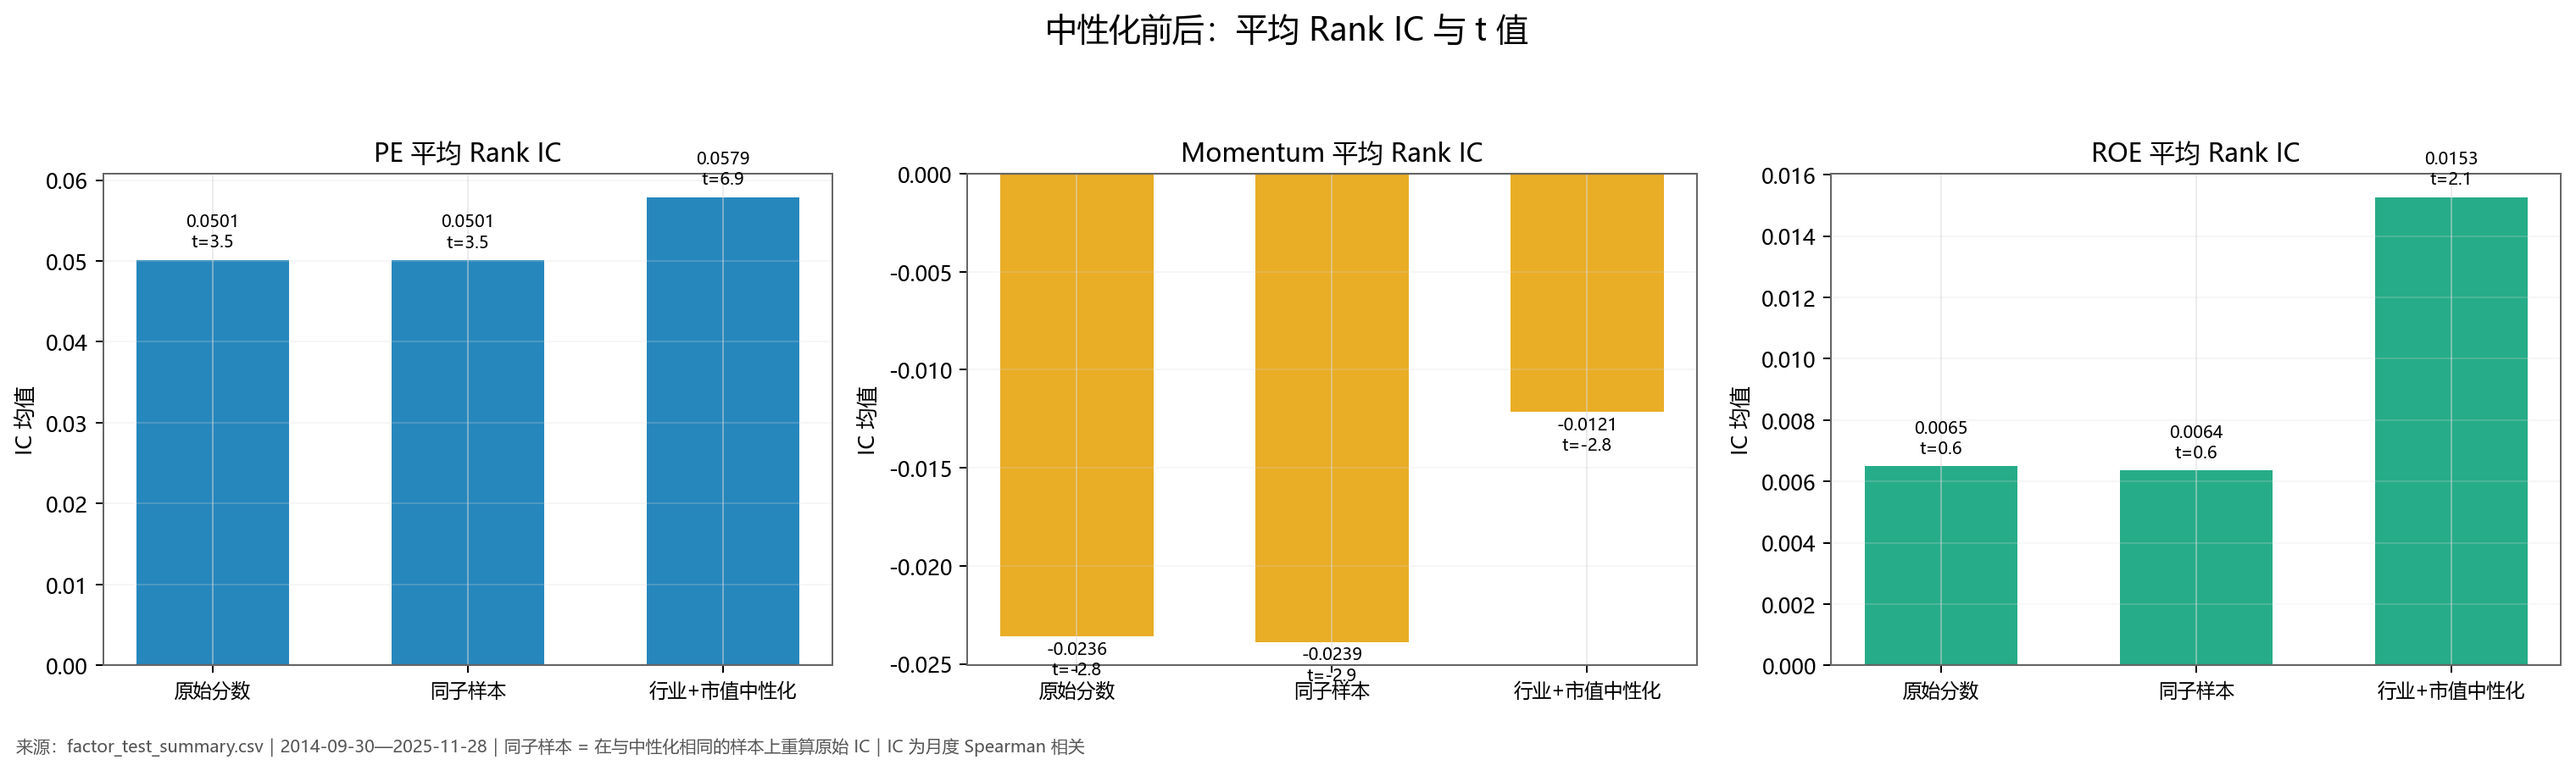
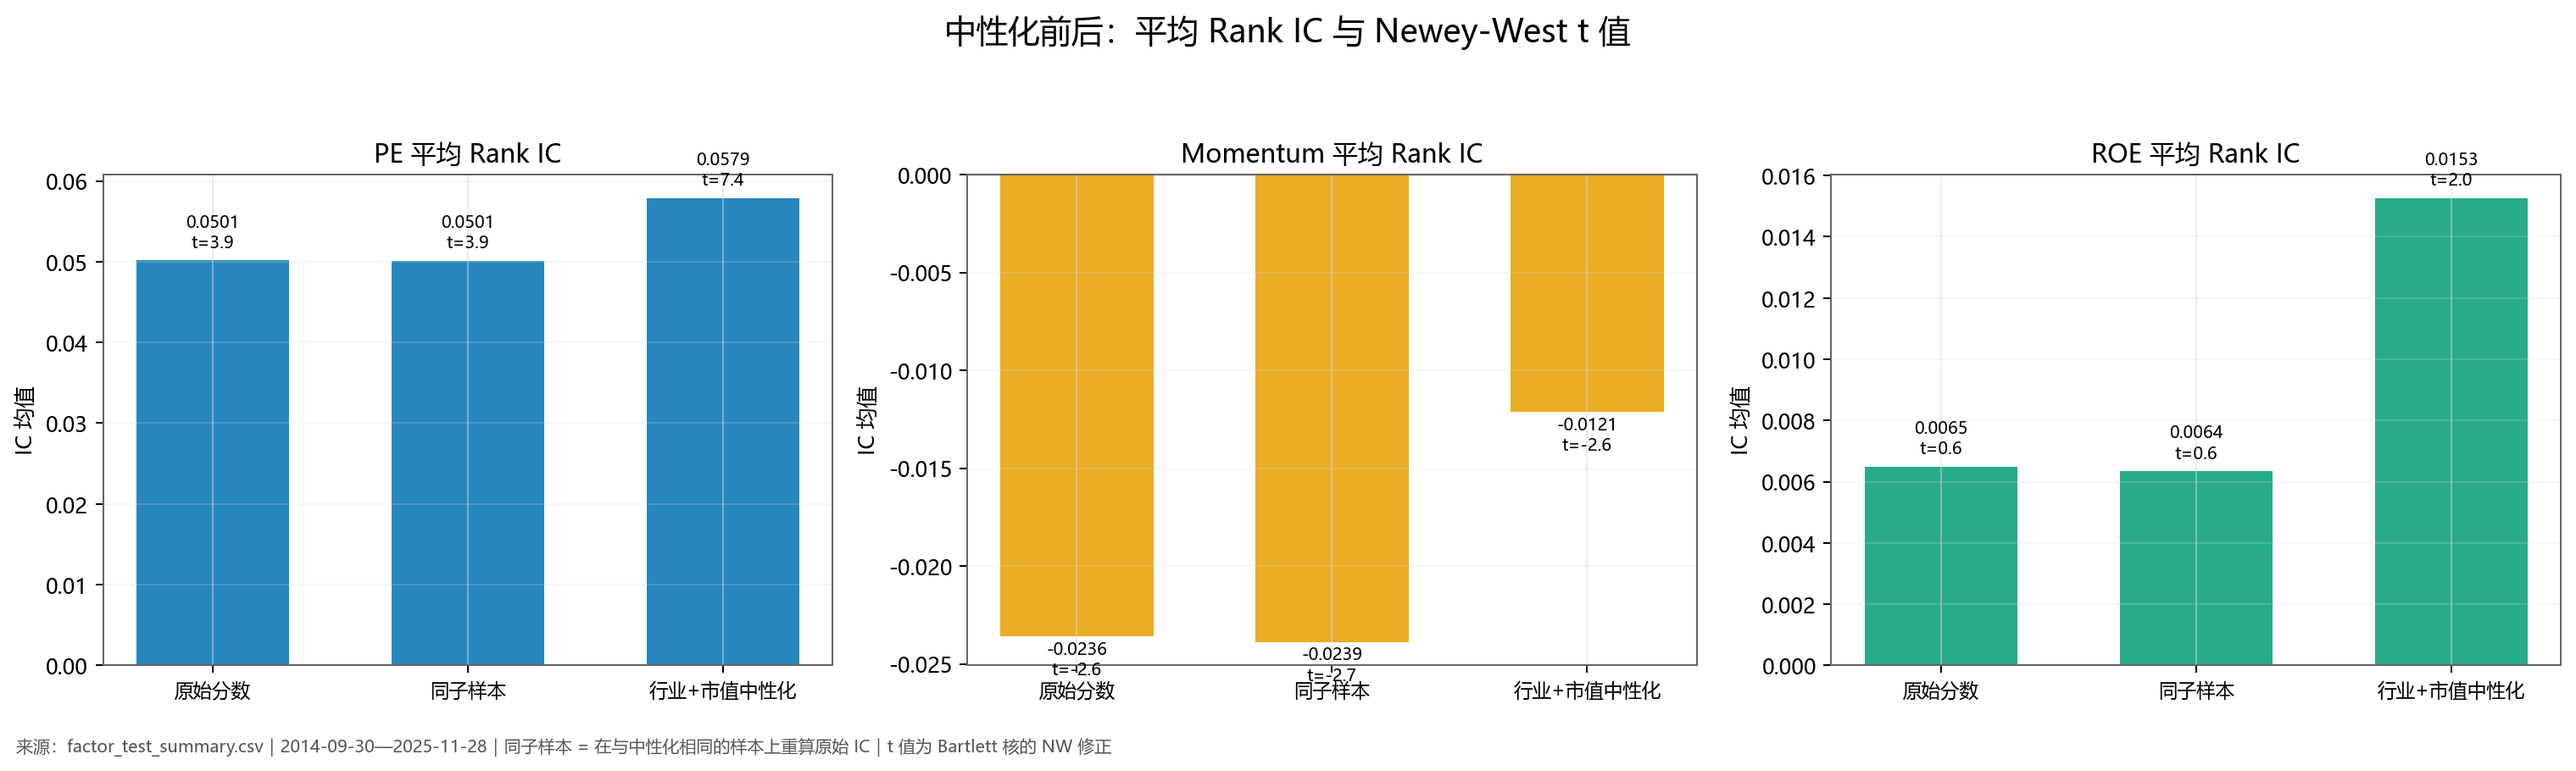
feat: report Newey-West t statistics and four-regime stability
The IC and long-short series are monthly and tend to run in streaks, so the plain t statistic overstates precision. Both are now paired with a Bartlett-kernel Newey-West t using the automatic bandwidth. The same statistics are repeated inside four style regimes configured in config.yaml, which turns a single full-sample claim into a statement about when the factor works.

diff --git a/src/factor_test.py b/src/factor_test.py
@@ -4,7 +4,7 @@ from __future__ import annotations
 
 import argparse
 import math
-from dataclasses import dataclass
+from dataclasses import dataclass, field
 from pathlib import Path
 
 import numpy as np
@@ -13,6 +13,7 @@ import pyarrow.parquet as pq
 import yaml
 
 FACTORS = ("pe", "momentum", "roe")
+MIN_T_STAT_ROWS = 3
 
 
 @dataclass(frozen=True)
@@ -20,6 +21,7 @@ class FactorTestConfig:
     processed_dir: Path
     quantile_groups: int
     min_ic_pairs: int
+    subperiods: tuple[tuple[str, pd.Timestamp, pd.Timestamp], ...] = ()
 
 
 @dataclass(frozen=True)
@@ -30,6 +32,22 @@ class FactorTestOutputs:
     quantile_returns: pd.DataFrame
     ic_series: pd.DataFrame
     summary: pd.DataFrame
+    subperiods: pd.DataFrame = field(default_factory=pd.DataFrame)
+
+
+def parse_subperiods(raw: object) -> tuple[tuple[str, pd.Timestamp, pd.Timestamp], ...]:
+    """Read the configured sub-periods and reject overlaps or mixed-up order."""
+    entries = tuple(
+        (str(item["name"]), pd.Timestamp(item["start"]), pd.Timestamp(item["end"]))
+        for item in (raw or [])
+    )
+    for name, start, end in entries:
+        if start > end:
+            raise ValueError(f"Sub-period {name} starts after it ends.")
+    for previous, following in zip(entries, entries[1:]):
+        if following[1] <= previous[2]:
+            raise ValueError(f"Sub-period {following[0]} overlaps {previous[0]}.")
+    return entries
 
 
 def load_factor_test_config(config_path: Path) -> FactorTestConfig:
@@ -40,6 +58,7 @@ def load_factor_test_config(config_path: Path) -> FactorTestConfig:
         processed_dir=root / settings["data"]["processed_dir"],
         quantile_groups=int(settings["factors"]["quantile_groups"]),
         min_ic_pairs=int(settings["factor_test"]["min_ic_pairs"]),
+        subperiods=parse_subperiods(settings["factor_test"].get("subperiods")),
     )
 
 
@@ -252,17 +271,39 @@ def build_ic_series(details: pd.DataFrame, min_ic_pairs: int) -> pd.DataFrame:
     return pd.DataFrame(rows)
 
 
-def _mean_ir_t(values: pd.Series) -> tuple[float | pd.NA, float | pd.NA, float | pd.NA]:
-    """Mean, information ratio, and t statistic of a monthly series."""
+def newey_west_lags(count: int) -> int:
+    """Newey-West (1994) automatic bandwidth: floor(4 * (T/100)^(2/9))."""
+    return max(1, int(np.floor(4 * (count / 100) ** (2 / 9))))
+
+
+def newey_west_t(values: pd.Series, lags: int | None = None) -> float:
+    """t statistic of the mean with a Bartlett-weighted long-run variance."""
+    clean = values.dropna().to_numpy(dtype=float)
+    count = clean.size
+    if count < MIN_T_STAT_ROWS:
+        return np.nan
+    bandwidth = min(newey_west_lags(count) if lags is None else int(lags), count - 1)
+    centered = clean - clean.mean()
+    long_run = float((centered ** 2).sum() / count)
+    for lag in range(1, bandwidth + 1):
+        covariance = float((centered[lag:] * centered[:-lag]).sum() / count)
+        long_run += 2 * (1 - lag / (bandwidth + 1)) * covariance
+    if long_run <= 0:
+        return np.nan
+    return float(clean.mean() / np.sqrt(long_run / count))
+
+
+def _mean_ir_t(values: pd.Series) -> tuple[float | pd.NA, float | pd.NA, float | pd.NA, float | pd.NA]:
+    """Mean, information ratio, plain t, and Newey-West t of a monthly series."""
     clean = values.dropna()
     if len(clean) < 2:
-        return pd.NA, pd.NA, pd.NA
+        return pd.NA, pd.NA, pd.NA, pd.NA
     mean = float(clean.mean())
     spread = float(clean.std(ddof=1))
     if spread == 0:
-        return mean, pd.NA, pd.NA
+        return mean, pd.NA, pd.NA, pd.NA
     ratio = mean / spread
-    return mean, ratio, ratio * np.sqrt(len(clean))
+    return mean, ratio, ratio * np.sqrt(len(clean)), newey_west_t(clean)
 
 
 def build_summary(details: pd.DataFrame, quantile_returns: pd.DataFrame, ic_series: pd.DataFrame) -> pd.DataFrame:
@@ -273,8 +314,8 @@ def build_summary(details: pd.DataFrame, quantile_returns: pd.DataFrame, ic_seri
             quantile_returns["factor"].eq(factor) & quantile_returns["score_type"].eq(score_type)
         ]
         spread = groups.loc[groups["quantile"].eq(1), ["signal_date", "q_high_minus_q_low"]].drop_duplicates()
-        ic_mean, ic_ir, ic_t = _mean_ir_t(ic)
-        spread_mean, _, spread_t = _mean_ir_t(spread["q_high_minus_q_low"])
+        ic_mean, ic_ir, ic_t, ic_t_nw = _mean_ir_t(ic)
+        spread_mean, _, spread_t, spread_t_nw = _mean_ir_t(spread["q_high_minus_q_low"])
         rows.append({
             "factor": factor, "score_type": score_type,
             "signal_periods": int(item["signal_date"].nunique()),
@@ -286,10 +327,44 @@ def build_summary(details: pd.DataFrame, quantile_returns: pd.DataFrame, ic_seri
             "empty_group_rows": int(groups["empty_group"].sum()),
             "ic_valid_periods": int(ic.notna().sum()),
             "ic_mean": ic_mean, "ic_std": float(ic.std(ddof=1)) if ic.notna().sum() > 1 else pd.NA,
-            "ic_ir": ic_ir, "ic_t": ic_t,
+            "ic_ir": ic_ir, "ic_t": ic_t, "ic_t_nw": ic_t_nw,
+            "nw_lags": newey_west_lags(int(ic.notna().sum())) if ic.notna().sum() else pd.NA,
             "ic_win_rate": ic.gt(0).mean() if ic.notna().any() else pd.NA,
-            "spread_mean": spread_mean, "spread_t": spread_t,
+            "spread_mean": spread_mean, "spread_t": spread_t, "spread_t_nw": spread_t_nw,
         })
+    return pd.DataFrame(rows)
+
+
+def build_subperiod_table(quantile_returns: pd.DataFrame, ic_series: pd.DataFrame,
+                          subperiods: tuple[tuple[str, pd.Timestamp, pd.Timestamp], ...]) -> pd.DataFrame:
+    """Repeat the IC and spread statistics inside each configured regime."""
+    if not subperiods:
+        return pd.DataFrame()
+    spread_all = (
+        quantile_returns.loc[quantile_returns["quantile"].eq(1),
+                            ["factor", "score_type", "signal_date", "q_high_minus_q_low"]]
+        .drop_duplicates(["factor", "score_type", "signal_date"])
+    )
+    rows = []
+    for (factor, score_type), ic_group in ic_series.groupby(["factor", "score_type"], sort=True):
+        spread_group = spread_all.loc[
+            spread_all["factor"].eq(factor) & spread_all["score_type"].eq(score_type)
+        ]
+        for name, start, end in subperiods:
+            ic_slice = ic_group.loc[ic_group["signal_date"].between(start, end), "rank_ic"]
+            spread_slice = spread_group.loc[
+                spread_group["signal_date"].between(start, end), "q_high_minus_q_low"
+            ]
+            ic_mean, ic_ir, _, ic_t_nw = _mean_ir_t(ic_slice)
+            spread_mean, _, _, spread_t_nw = _mean_ir_t(spread_slice)
+            rows.append({
+                "factor": factor, "score_type": score_type, "period": name,
+                "start": start, "end": end,
+                "periods": int(ic_slice.notna().sum()),
+                "ic_mean": ic_mean, "ic_ir": ic_ir, "ic_t_nw": ic_t_nw,
+                "ic_win_rate": ic_slice.gt(0).mean() if ic_slice.notna().any() else pd.NA,
+                "spread_mean": spread_mean, "spread_t_nw": spread_t_nw,
+            })
     return pd.DataFrame(rows)
 
 
@@ -310,25 +385,46 @@ def validate_outputs(outputs: FactorTestOutputs, quantile_groups: int, min_ic_pa
         raise ValueError("Rank IC was calculated below the configured minimum sample size.")
     if set(ic["score_type"]) != set(members["score_type"]):
         raise ValueError("Every score type must appear in the IC series.")
+    if not outputs.subperiods.empty:
+        if outputs.subperiods.duplicated(["factor", "score_type", "period"]).any():
+            raise ValueError("Sub-period table contains duplicate rows.")
+        totals = outputs.subperiods.groupby(["factor", "score_type"])["periods"].sum()
+        expected = outputs.summary.set_index(["factor", "score_type"])["ic_valid_periods"]
+        if not totals.reindex(expected.index).fillna(0).eq(expected).all():
+            raise ValueError("Sub-period counts do not add up to the overall IC periods.")
 
 
 def render_report(outputs: FactorTestOutputs) -> str:
     lines = ["# 因子有效性检验", "", "本报告检验因子分数对下一月收益的区分能力，不代表实际开盘成交后的策略收益。", "",
-             "## 汇总", "", "| 因子 | 分数 | 可检验股票记录 | 有效 IC 期数 | IC 均值 | IC 标准差 | ICIR | IC t 值 | IC 胜率 | Q5-Q1 均值 | Q5-Q1 t 值 |",
-             "| --- | --- | ---: | ---: | ---: | ---: | ---: | ---: | ---: | ---: | ---: |"]
+             "## 汇总", "", "| 因子 | 分数 | 有效 IC 期数 | IC 均值 | IC 标准差 | ICIR | IC t 值 | IC t 值（NW） | IC 胜率 | Q5-Q1 均值 | Q5-Q1 t 值（NW） | NW 阶数 |",
+             "| --- | --- | ---: | ---: | ---: | ---: | ---: | ---: | ---: | ---: | ---: | ---: |"]
     order = {"raw": 0, "raw_neutral_sample": 1, "neutral": 2}
     summary = outputs.summary.assign(_order=outputs.summary["score_type"].map(order)).sort_values(["_order", "factor"])
     for row in summary.itertuples(index=False):
         def fmt(value: float) -> str:
             return "—" if pd.isna(value) else f"{value:.4f}"
         lines.append(
-            f"| {row.factor} | {row.score_type} | {row.test_eligible_rows} | {row.ic_valid_periods} | "
-            f"{fmt(row.ic_mean)} | {fmt(row.ic_std)} | {fmt(row.ic_ir)} | {fmt(row.ic_t)} | "
-            f"{fmt(row.ic_win_rate)} | {fmt(row.spread_mean)} | {fmt(row.spread_t)} |"
+            f"| {row.factor} | {row.score_type} | {row.ic_valid_periods} | "
+            f"{fmt(row.ic_mean)} | {fmt(row.ic_std)} | {fmt(row.ic_ir)} | {fmt(row.ic_t)} | {fmt(row.ic_t_nw)} | "
+            f"{fmt(row.ic_win_rate)} | {fmt(row.spread_mean)} | {fmt(row.spread_t_nw)} | {row.nw_lags} |"
         )
     if "neutral" in set(outputs.summary["score_type"]):
         lines.extend(["", "`raw` 为全样本原始分数，`raw_neutral_sample` 为同一批中性化可评估样本上的原始分数，"
-                      "`neutral` 为行业与市值中性化后的分数。三者的差值才是中性化本身的效应。", ""])
+                      "`neutral` 为行业与市值中性化后的分数。三者的差值才是中性化本身的效应。",
+                      "`t 值（NW）` 用 Bartlett 核的 long-run 方差，带宽按 Newey-West 自动规则取 4×(T/100)^(2/9)，"
+                      "与普通 t 值并列以便看出序列相关的影响。", ""])
+    if not outputs.subperiods.empty:
+        lines.extend(["", "## 子区间稳定性", "",
+                      "| 因子 | 分数 | 区间 | 期数 | IC 均值 | IC t 值（NW） | ICIR | IC 胜率 | Q5-Q1 均值 | Q5-Q1 t 值（NW） |",
+                      "| --- | --- | --- | ---: | ---: | ---: | ---: | ---: | ---: | ---: |"])
+        for row in outputs.subperiods.itertuples(index=False):
+            def fmt_period(value: float) -> str:
+                return "—" if pd.isna(value) else f"{value:.4f}"
+            lines.append(
+                f"| {row.factor} | {row.score_type} | {row.period} | {row.periods} | "
+                f"{fmt_period(row.ic_mean)} | {fmt_period(row.ic_t_nw)} | {fmt_period(row.ic_ir)} | "
+                f"{fmt_period(row.ic_win_rate)} | {fmt_period(row.spread_mean)} | {fmt_period(row.spread_t_nw)} |"
+            )
     lines.extend(["", "## 口径限制", "", "- 2025-12-31 没有后续持有期数据，未进入分组收益或 IC。",
                   "- Momentum 在 2014-09 至 2015-02 没有可用六个月历史价格，未进行分组或 IC。",
                   "- PE 按交易日 `PE1TTM` 可用的既定口径处理；该限制仅在最终报告中说明。", ""])
@@ -347,7 +443,8 @@ def run(config: FactorTestConfig) -> FactorTestOutputs:
     members, quantile_returns = build_quantile_returns(details, config.quantile_groups)
     ic_series = build_ic_series(details, config.min_ic_pairs)
     summary = build_summary(details, quantile_returns, ic_series)
-    outputs = FactorTestOutputs(forward, details, members, quantile_returns, ic_series, summary)
+    subperiods = build_subperiod_table(quantile_returns, ic_series, config.subperiods)
+    outputs = FactorTestOutputs(forward, details, members, quantile_returns, ic_series, summary, subperiods)
     validate_outputs(outputs, config.quantile_groups, config.min_ic_pairs)
     forward.to_parquet(directory / "factor_forward_returns.parquet", index=False)
     details.to_parquet(directory / "factor_test_details.parquet", index=False)
@@ -355,6 +452,8 @@ def run(config: FactorTestConfig) -> FactorTestOutputs:
     quantile_returns.to_csv(directory / "factor_quantile_returns.csv", index=False, encoding="utf-8-sig")
     ic_series.to_csv(directory / "factor_ic_series.csv", index=False, encoding="utf-8-sig")
     summary.to_csv(directory / "factor_test_summary.csv", index=False, encoding="utf-8-sig")
+    if not subperiods.empty:
+        subperiods.to_csv(directory / "factor_subperiods.csv", index=False, encoding="utf-8-sig")
     report_dir = directory.parent.parent / "reports" / "generated"
     report_dir.mkdir(parents=True, exist_ok=True)
     (report_dir / "factor-test.md").write_text(render_report(outputs), encoding="utf-8")

diff --git a/tests/test_factor_test.py b/tests/test_factor_test.py
@@ -2,6 +2,7 @@
 
 from pathlib import Path
 
+import numpy as np
 import pandas as pd
 import pytest
 
@@ -83,3 +84,101 @@ def test_rank_ic_requires_minimum_pairs_and_reports_positive_win() -> None:
     enough = pd.concat([small, small.assign(signal_date=pd.Timestamp("2021-02-26"))], ignore_index=True)
     result = build_ic_series(enough, 3)
     assert result["rank_ic"].dropna().eq(1).all()
+
+def test_newey_west_lags_follows_the_sample_size() -> None:
+    from src.factor_test import newey_west_lags
+
+    assert newey_west_lags(28) == 3
+    assert newey_west_lags(135) == 4
+    assert newey_west_lags(1000) == 6
+
+
+def test_newey_west_matches_the_plain_t_on_white_noise() -> None:
+    from src.factor_test import newey_west_t
+
+    rng = np.random.default_rng(20260930)
+    values = pd.Series(rng.normal(0.02, 0.1, 600))
+    plain = values.mean() / values.std(ddof=1) * np.sqrt(len(values))
+    assert newey_west_t(values) == pytest.approx(plain, rel=0.1)
+
+
+def test_newey_west_shrinks_the_t_statistic_under_positive_autocorrelation() -> None:
+    from src.factor_test import newey_west_t
+
+    rng = np.random.default_rng(11)
+    shocks = rng.normal(0.0, 0.1, 800)
+    values = np.zeros_like(shocks)
+    for index in range(1, shocks.size):
+        values[index] = 0.6 * values[index - 1] + shocks[index]
+    series = pd.Series(values + 0.01)
+    plain = abs(series.mean() / series.std(ddof=1) * np.sqrt(len(series)))
+    assert 0 < abs(newey_west_t(series)) < plain
+
+
+def test_newey_west_returns_nan_when_the_variance_is_degenerate() -> None:
+    from src.factor_test import newey_west_t
+
+    assert pd.isna(newey_west_t(pd.Series([0.05, 0.05, 0.05, 0.05])))
+    assert pd.isna(newey_west_t(pd.Series([0.01, 0.02])))
+
+
+def _subperiod_frames() -> tuple[pd.DataFrame, pd.DataFrame, list]:
+    dates = pd.date_range("2021-01-31", periods=12, freq="ME")
+    ic = pd.DataFrame({
+        "factor": "pe", "score_type": "raw", "signal_date": dates,
+        "rank_ic": np.linspace(-0.1, 0.1, 12),
+    })
+    quantiles = pd.DataFrame({
+        "factor": "pe", "score_type": "raw", "signal_date": dates,
+        "quantile": 1, "q_high_minus_q_low": np.linspace(-0.02, 0.02, 12),
+    })
+    bounds = [
+        ("Q1", pd.Timestamp("2021-01-01"), pd.Timestamp("2021-04-30")),
+        ("Q2", pd.Timestamp("2021-05-01"), pd.Timestamp("2021-08-31")),
+        ("Q3", pd.Timestamp("2021-09-01"), pd.Timestamp("2021-12-31")),
+    ]
+    return ic, quantiles, bounds
+
+
+def test_subperiods_partition_the_sample() -> None:
+    from src.factor_test import build_subperiod_table
+
+    ic, quantiles, bounds = _subperiod_frames()
+    table = build_subperiod_table(quantiles, ic, tuple(bounds))
+    assert table["periods"].sum() == 12
+    assert table["periods"].tolist() == [4, 4, 4]
+
+
+def test_subperiod_bounds_are_inclusive() -> None:
+    from src.factor_test import build_subperiod_table
+
+    ic, quantiles, _ = _subperiod_frames()
+    bounds = (("only", pd.Timestamp("2021-01-31"), pd.Timestamp("2021-04-30")),)
+    table = build_subperiod_table(quantiles, ic, bounds)
+    assert table["periods"].tolist() == [4]
+
+
+def test_summary_reports_newey_west_columns() -> None:
+    from src.factor_test import build_summary
+
+    details = pd.DataFrame({
+        "factor": ["pe"] * 4, "score_type": ["raw"] * 4,
+        "signal_date": pd.date_range("2021-01-31", periods=4, freq="ME"),
+        "test_eligible": [True] * 4,
+        "test_unavailable_reason": pd.Series([pd.NA] * 4, dtype="string"),
+        "early_exit_or_data_cutoff": [False] * 4,
+        "extreme_return_days": [0] * 4,
+    })
+    ic = pd.DataFrame({
+        "factor": "pe", "score_type": "raw",
+        "signal_date": details["signal_date"], "rank_ic": [0.05, 0.02, 0.08, 0.03],
+    })
+    quantiles = pd.DataFrame({
+        "factor": "pe", "score_type": "raw", "signal_date": details["signal_date"],
+        "quantile": 1, "q_high_minus_q_low": [0.01, 0.0, 0.02, 0.005], "empty_group": False,
+    })
+    summary = build_summary(details, quantiles, ic)
+    row = summary.iloc[0]
+    assert {"ic_t_nw", "spread_t_nw", "nw_lags"} <= set(summary.columns)
+    assert pd.notna(row["ic_t_nw"]) and pd.notna(row["spread_t_nw"])
+    assert row["nw_lags"] >= 1

diff --git a/src/visualization.py b/src/visualization.py
@@ -439,7 +439,7 @@ def plot_neutralization(inputs: FigureInputs, output: Path) -> None:
                 continue
             labels.append(label)
             values.append(float(row["ic_mean"].iloc[0]))
-            t_value = row["ic_t"].iloc[0]
+            t_value = row["ic_t_nw"].iloc[0]
             t_values.append(float(t_value) if pd.notna(t_value) else np.nan)
         positions = np.arange(len(values))
         axis.bar(positions, values, color=FACTOR_COLORS[factor], alpha=0.85, width=0.6)
@@ -452,8 +452,8 @@ def plot_neutralization(inputs: FigureInputs, output: Path) -> None:
             text = f"{value:.4f}\nt={t_value:.1f}" if np.isfinite(t_value) else f"{value:.4f}"
             axis.annotate(text, (position, value), textcoords="offset points",
                           xytext=(0, 6 if value >= 0 else -18), ha="center", fontsize=8)
-    fig.suptitle("中性化前后：平均 Rank IC 与 t 值", fontsize=15)
-    _footer(fig, "来源：factor_test_summary.csv｜2014-09-30—2025-11-28｜同子样本 = 在与中性化相同的样本上重算原始 IC｜IC 为月度 Spearman 相关")
+    fig.suptitle("中性化前后：平均 Rank IC 与 Newey-West t 值", fontsize=15)
+    _footer(fig, "来源：factor_test_summary.csv｜2014-09-30—2025-11-28｜同子样本 = 在与中性化相同的样本上重算原始 IC｜t 值为 Bartlett 核的 NW 修正")
     fig.tight_layout(rect=(0, 0.05, 1, 0.92))
     _save(fig, output)
 
